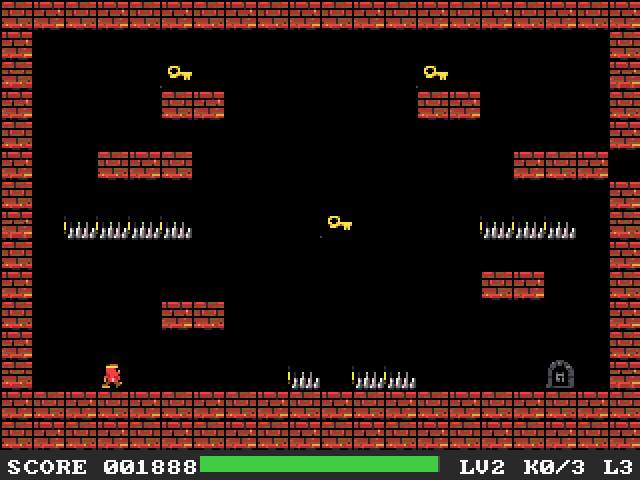
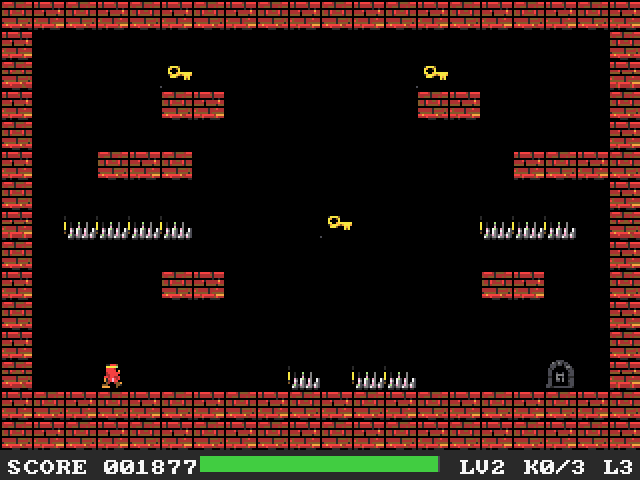
Miner Meteor: land on the floor (no bob), Hazard Bay and Collapsing Attic reachable
The landing snapped from the player's old y, so a fall that crossed a tile
boundary left the player 16 px above the floor, dropping and snapping back
every few frames. Land on the tile under the new y instead (as in the
Amiga original's fix).

Every earlier route used the bob to jump from 16 px higher. Without it a
complete search over the game state finds no way to Hazard Bay's top-left
key or Collapsing Attic's upper ledges, so those layouts change, marked
"bug in the original: unwinnable":
- Hazard Bay: the row-10 ledge (cols 5-6) moves up to row 9.
- Collapsing Attic: the row-8 ledge moves to cols 8-11 with its key
  (col 9), the row-3 ledge to cols 7-10.

Adds tools/route_check.sh (host build of src/game.c + src/levels.c):
replays tools/routes.json through all six caverns, failing on a lost life
or on standing over air, and `search N` (tools/route_search.cpp) for the
shortest route. 6 of 6 cleared: 271, 252, 842, 256, 209, 305 ticks.
demo.h is the new cavern 1 route; the README's Hazard Bay screenshot is
retaken.

Changed region(s): [[0.25, 0.5625, 0.375, 0.6875], [0.9375, 0.3125, 1.0, 0.375], [0.25, 0.9688, 0.3125, 1.0]]

diff --git a/projects/miner_meteor/tools/route_search.cpp b/projects/miner_meteor/tools/route_search.cpp
@@ -1,0 +1,102 @@
+// SPDX-License-Identifier: MIT
+// Copyright (c) 2026 Chris Collins <chris@hitorro.com>
+/*
+ * Miner Meteor route search: a breadth-first search over the port's own
+ * src/game.c and src/levels.c, built for the host, one game_tick per step
+ * with the six inputs (none, left, right, jump, left+jump, right+jump).
+ * A state is the player (position, fall speed, footing, jump lock), the
+ * keys, every tile's kind and collapse timer and every guardian's position
+ * and direction; each is expanded once (128-bit hash), and a state that
+ * loses a life is dropped. Prints the shortest route that clears the
+ * cavern as a routes.json entry ([input flags, ticks] runs).
+ *
+ *   tools/route_check.sh search <cavern 1-6>
+ */
+#include <stdio.h>
+#include <stdlib.h>
+#include <string.h>
+#include <algorithm>
+#include <string>
+#include <unordered_set>
+#include <vector>
+extern "C" {
+#include "game.h"
+#include "levels.h"
+}
+
+struct H { unsigned long long a, b; bool operator==(const H &o) const { return a == o.a && b == o.b; } };
+struct HH { size_t operator()(const H &h) const { return (size_t)(h.a ^ (h.b * 0x9e3779b97f4a7c15ULL)); } };
+static H hash2(const std::string &k)
+{
+    unsigned long long a = 1469598103934665603ULL, b = 0x84222325cbf29ce4ULL;
+    for (size_t i = 0; i < k.size(); i++) {
+        unsigned char c = (unsigned char)k[i];
+        a = (a ^ c) * 1099511628211ULL;
+        b = (b ^ c) * 0x100000001b3ULL; b ^= b >> 29;
+    }
+    H h = { a, b };
+    return h;
+}
+struct Step { int parent; unsigned char in; };
+
+int main(int argc, char **argv)
+{
+    static const UBYTE inputs[] = { 0, INPUT_LEFT, INPUT_RIGHT, INPUT_JUMP,
+                                    INPUT_LEFT | INPUT_JUMP, INPUT_RIGHT | INPUT_JUMP };
+    LONG lv = argc > 1 ? atol(argv[1]) - 1 : 0;
+    static GameState work;
+    game_init(&work);
+    work.mode = GM_PLAYING;
+    game_load_level(lv);
+    std::vector<GameState> cur(1, work), next;
+    std::vector<std::vector<Step> > hist;
+    std::unordered_set<H, HH> seen;
+    for (int depth = 1; depth <= 6000 && !cur.empty(); depth++) {
+        std::vector<Step> steps;
+        next.clear();
+        for (size_t ci = 0; ci < cur.size(); ci++)
+            for (size_t ii = 0; ii < sizeof(inputs); ii++) {
+                UBYTE in = inputs[ii];
+                work = cur[ci];
+                game_tick(in);
+                if (work.lives < cur[ci].lives || work.mode == GM_LOSE) continue;
+                if (work.mode == GM_LEVELWIN || work.mode == GM_WIN) {
+                    std::vector<UBYTE> path(1, in);
+                    for (int d = (int)hist.size() - 1, p = (int)ci; d >= 0; d--) {
+                        path.push_back(hist[d][p].in); p = hist[d][p].parent;
+                    }
+                    std::reverse(path.begin(), path.end());
+                    fprintf(stderr, "cavern %ld cleared in %d ticks\n", (long)lv + 1, depth);
+                    printf("[");
+                    for (size_t i = 0; i < path.size();) {
+                        size_t j = i;
+                        while (j < path.size() && path[j] == path[i]) j++;
+                        printf("%s[%d, %d]", i ? ", " : "", path[i], (int)(j - i));
+                        i = j;
+                    }
+                    printf("]\n");
+                    return 0;
+                }
+                const Player &p = work.player;
+                LONG m[6] = { p.x, p.y, p.vy, p.on_ground, p.jump_lock, work.keys_remaining };
+                std::string k((const char *)m, sizeof(m));
+                for (int r = 0; r < GRID_H; r++)
+                    for (int c = 0; c < GRID_W; c++) {
+                        k.push_back((char)work.grid[r][c].kind);
+                        k.push_back((char)work.grid[r][c].timer);
+                    }
+                for (int g = 0; g < work.num_guards; g++) {
+                    LONG gg[4] = { work.guards[g].x, work.guards[g].y, work.guards[g].dx, work.guards[g].dy };
+                    k.append((const char *)gg, sizeof(gg));
+                }
+                if (!seen.insert(hash2(k)).second) continue;
+                Step s = { (int)ci, in };
+                steps.push_back(s);
+                next.push_back(work);
+            }
+        hist.push_back(steps);
+        cur.swap(next);
+    }
+    fprintf(stderr, "cavern %ld: no route found\n", (long)lv + 1);
+    return 1;
+}

diff --git a/projects/miner_meteor/tools/route_check.c b/projects/miner_meteor/tools/route_check.c
@@ -1,0 +1,83 @@
+/* SPDX-License-Identifier: MIT */
+/* Copyright (c) 2026 Chris Collins <chris@hitorro.com> */
+/*
+ * Miner Meteor route check: plays a route through each of the six caverns
+ * on the port's own src/game.c and src/levels.c, built for the host, one
+ * game_tick per input, and reports whether each cavern is cleared (all the
+ * keys, then the exit) without losing a life.
+ *
+ * tools/routes.json holds one list of [input flags, ticks] runs per cavern
+ * (1 left, 2 right, 4 jump), found by tools/route_search.cpp over the same
+ * game code. A run also fails if the player is ever standing (on_ground)
+ * with no floor under their feet, which the landing snap used to do (the
+ * bob). Exit status 0 only when all six are cleared.
+ *
+ *   tools/route_check.sh
+ */
+#include <stdio.h>
+#include <stdlib.h>
+#include "game.h"
+#include "levels.h"
+
+#define MAXRUNS 512
+static int runs[6][MAXRUNS][2], nruns[6];
+
+/* routes.json: [[[flags, n], ...], ...] - read the numbers in order */
+static void load(const char *path)
+{
+    FILE *f = fopen(path, "r");
+    int depth = 0, c, have = 0, num = 0, first = -1, lv = -1;
+    if (!f) { perror(path); exit(2); }
+    while ((c = fgetc(f)) != EOF) {
+        if (c >= '0' && c <= '9') { num = num * 10 + (c - '0'); have = 1; continue; }
+        if (have) {
+            if (first < 0) first = num;
+            else if (lv >= 0 && lv < 6 && nruns[lv] < MAXRUNS) {
+                runs[lv][nruns[lv]][0] = first; runs[lv][nruns[lv]][1] = num; nruns[lv]++; first = -1;
+            }
+            num = 0; have = 0;
+        }
+        if (c == '[' && ++depth == 2) lv++;
+        if (c == ']') depth--;
+    }
+    fclose(f);
+}
+
+static int solid(const GameState *s, LONG px, LONG py)
+{
+    UBYTE k;
+    if (px < 0 || py < 0 || px >= PLAY_W || py >= PLAY_H) return 1;
+    k = s->grid[py / TILE_H][px / TILE_W].kind;
+    return k == T_SOLID || k == T_COLLAPSE || k == T_CONV_L || k == T_CONV_R;
+}
+
+int main(int argc, char **argv)
+{
+    static GameState gs;
+    LONG lv;
+    int cleared = 0;
+    load(argc > 1 ? argv[1] : "tools/routes.json");
+    for (lv = 0; lv < NUM_LEVELS; lv++) {
+        LONG lives;
+        int ticks = 0, done = 0, r, n;
+        const char *why = "route ended";
+        game_init(&gs);
+        gs.mode = GM_PLAYING;
+        game_load_level(lv);
+        lives = gs.lives;
+        for (r = 0; r < nruns[lv] && !done; r++)
+            for (n = 0; n < runs[lv][r][1] && !done; n++) {
+                game_tick((UBYTE)runs[lv][r][0]);
+                ticks++;
+                if (gs.mode == GM_LEVELWIN || gs.mode == GM_WIN) done = 1;
+                else if (gs.lives < lives || gs.mode == GM_LOSE) { why = "lost a life"; done = -1; }
+                else if (gs.player.on_ground && !solid(&gs, gs.player.x + 1, gs.player.y + 16)
+                         && !solid(&gs, gs.player.x + 14, gs.player.y + 16)) { why = "stood on air (bob)"; done = -1; }
+            }
+        if (done == 1) cleared++;
+        printf("cavern %ld %-16s %s after %d ticks (keys left %ld)\n", (long)lv + 1,
+               LEVELS[lv].name, done == 1 ? "cleared" : why, ticks, (long)gs.keys_remaining);
+    }
+    printf("%d of %ld caverns cleared\n", cleared, (long)NUM_LEVELS);
+    return cleared == NUM_LEVELS ? 0 : 1;
+}

diff --git a/projects/miner_meteor/src/demo.h b/projects/miner_meteor/src/demo.h
@@ -4,16 +4,18 @@
 /*
  * Port addition: a recorded run through the first level, played back
  * from the title screen (see README.md). One {input flags, ticks} pair
- * per run of identical input; found by a breadth-first search over the
- * game's own tick function and checked by replaying it from the title.
+ * per run of identical input: cavern 1 of tools/routes.json, found by a
+ * breadth-first search over the game's own tick function (tools/route_search.cpp)
+ * and checked by replaying it from the title.
  */
 #ifndef DEMO_RUN_H
 #define DEMO_RUN_H
 
 static const UBYTE DEMO_RUN[][2] = {
-    {  1,   4 },    {  5,   1 },    {  1,   3 },    {  0,   9 },    {  2,   1 },    {  0,   1 },
-    {  2,   5 },    {  6,   1 },    {  2,  69 },    {  6,   1 },    {  2,  15 },    {  1,   4 },
-    {  0,   8 },    {  2,  12 },    {  0,   2 },    {  1,   9 },
+    {  1,   4 },    {  5,   1 },    {  1,   3 },    {  0,   6 },    {  2,  79 },    {  6,   1 },
+    {  2,  20 },    {  4,   1 },    {  1,  13 },    {  4,   1 },    {  0,  10 },    {  2,   5 },
+    {  1,  43 },    {  5,   1 },    {  1,  21 },    {  2,   1 },    {  6,   1 },    {  2,  11 },
+    {  0,   5 },    {  2,  44 },
 };
 #define DEMO_RUNS ((int)(sizeof(DEMO_RUN) / sizeof(DEMO_RUN[0])))
 

diff --git a/projects/miner_meteor/src/levels.c b/projects/miner_meteor/src/levels.c
@@ -57,8 +57,8 @@ static const char LVL1_TILES[] =
     "#..................#"
     "#.^^^^....K....^^^.#"
     "#..................#"
-    "#..............##..#"
-    "#....##............#"
+    "#....##........##..#"   /* bug in the original: unwinnable - this ledge was in row 10, too low to jump to row 5 from */
+    "#..................#"   /* was "#....##............#" */
     "#..................#"
     "#..P.....^.^^....E.#"   /* bug in the original: unwinnable (was ^^^^, no jump clears it) */
     "####################"
@@ -131,12 +131,12 @@ static const char LVL4_TILES[] =
     "####################"
     "#..................#"
     "#.........K........#"
-    "#........cccc......#"
+    "#......cccc........#"   /* bug in the original: unwinnable - out of jump reach, was "#........cccc......#" */
     "#..................#"
     "#..K...............#"
     "#.cccc.............#"
-    "#..............K...#"
-    "#............cccc..#"
+    "#........K.........#"   /* bug in the original: unwinnable - this ledge and key were out of reach, */
+    "#.......cccc.......#"   /* were "#..............K...#" / "#............cccc..#" */
     "#..................#"
     "#....K.............#"
     "#..cccc............#"

diff --git a/projects/miner_meteor/tools/hostinc/exec/types.h b/projects/miner_meteor/tools/hostinc/exec/types.h
@@ -1,0 +1,22 @@
+/* host build of the rules (tools/route_check.c, tools/route_search.cpp): the Amiga types */
+#ifndef EXEC_TYPES_H
+#define EXEC_TYPES_H
+#include <stdint.h>
+typedef uint8_t UBYTE;
+typedef int8_t BYTE;
+typedef uint16_t UWORD;
+typedef int16_t WORD;
+typedef uint32_t ULONG;
+typedef int32_t LONG;
+typedef int16_t BOOL;
+typedef char *STRPTR;
+typedef const char *CONST_STRPTR;
+typedef void *APTR;
+#ifndef TRUE
+#define TRUE 1
+#define FALSE 0
+#endif
+#ifndef NULL
+#define NULL ((void *)0)
+#endif
+#endif

diff --git a/projects/miner_meteor/src/game.c b/projects/miner_meteor/src/game.c
@@ -205,7 +205,7 @@ static void update_player(UBYTE input)
     if (p->vy > 0) {
         /* Falling - check floor at both feet corners. */
         if (solid_at(p->x + 1, new_y + 15) || solid_at(p->x + 14, new_y + 15)) {
-            new_y = ((p->y / TILE_H) + 1) * TILE_H - 16;
+            new_y = ((new_y + 15) / TILE_H) * TILE_H - 16;   /* fix in the original: snapped from the old y, so an unaligned landing left the player 16 px up, bobbing */
             p->vy = 0;
             p->on_ground = 1;
         }

diff --git a/projects/miner_meteor/README.md b/projects/miner_meteor/README.md
@@ -41,7 +41,7 @@ The game is C++ on the Amiga, but simple C++ (one class with methods, references
   pixels, but the keys sit on platforms 64 pixels above anywhere you can
   stand. The port uses -12 (66 pixels); a breadth-first search over the
   game's tick function, compiled for the host, then reaches every key and the
-  exit of caverns 1, 3, 4 and 5 (it also produced `demo.h`).
+  exit of caverns 1, 3, 4 and 5.
   Caverns 2 and 6 still couldn't be finished, so their level data is fixed
   too (`levels`, rows marked "bug in the original: unwinnable"), the same as
   in amiga_games: in cavern 2 one of the four floor spikes in front of the
@@ -62,6 +62,21 @@ The game is C++ on the Amiga, but simple C++ (one class with methods, references
   wrapped at 4 though the sheet has 8 walk frames, so frames 4-7 were never
   drawn. The host search still finds a run through all six caverns with
   these changes.
+- **Landing bob** (fixed in the original too, amiga_games): a landing snapped
+  from the player's old y instead of the new one, so a fall that crossed a
+  tile boundary put the player 16 pixels above the floor, where they dropped
+  and snapped back every few frames until they moved. The player now lands
+  exactly on the floor. Every earlier route had relied on the bob, since
+  you could jump from 16 pixels up, and without it Hazard Bay's top-left key
+  and Collapsing Attic's upper ledges were out of reach. So two more
+  layouts changed (rows marked "bug in the original: unwinnable" in
+  `src/levels.c`): in Hazard Bay the row-10 ledge (columns 5-6) moved up to
+  row 9, in reach of the row-5 ledge; in Collapsing Attic the row-8 ledge
+  moved 5 columns left (to columns 8-11) with its key (column 9), and the
+  row-3 ledge 2 columns left (to columns 7-10). A breadth-first search over the port's own
+  game code (`tools/route_search.cpp`) finds a run through all six caverns
+  (271, 252, 842, 256, 209 and 305 ticks), and `tools/route_check.sh`
+  replays them (`tools/routes.json`). The cavern 1 run is `demo.h`.
 - The title and end-screen captions (pen 0 on a coloured bar) are black boxes
   on the Amiga, whose default draw mode is JAM2; the port draws text in JAM1.
 
@@ -72,3 +87,9 @@ checks that it clears cavern 1 and cavern 2 starts, plays a little, checks the
 speed (50 fps, 50 logic steps/s) and quits with X. The game logs a
 `MINER state=...` line on every change of mode, level, lives or keys,
 `demo: start` / `demo: done` and a `status:` line every 250 frames.
+
+`tools/route_check.sh` builds `src/game.c` and `src/levels.c` for the host and
+plays `tools/routes.json` through all six caverns; it fails unless all six
+are cleared without losing a life, and also fails a run if the player is
+ever standing with no floor under their feet (the old bob). `tools/route_check.sh search N` finds the
+shortest run through cavern N.
